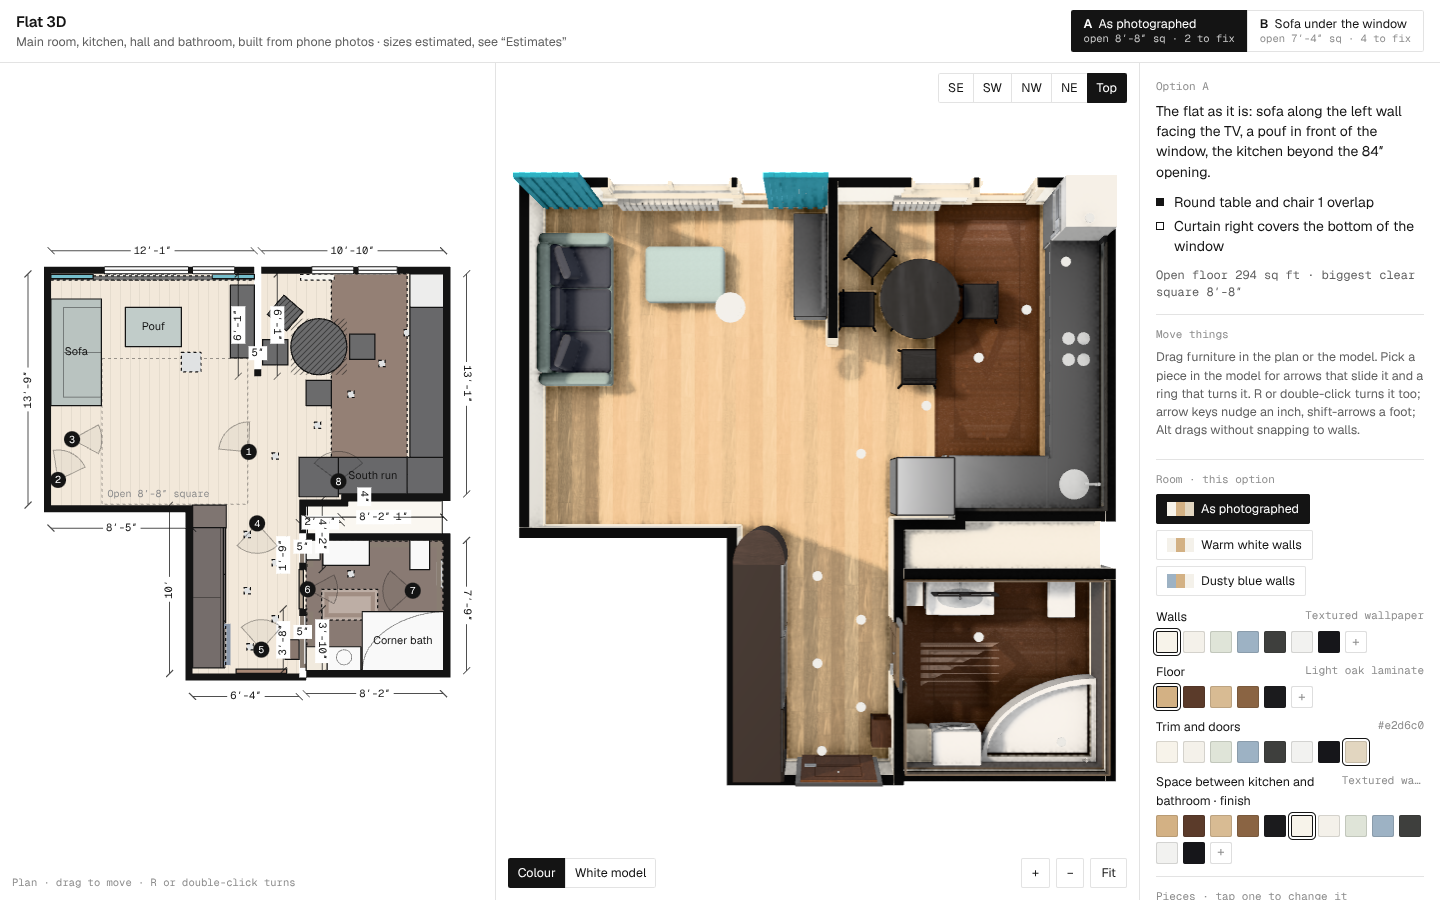
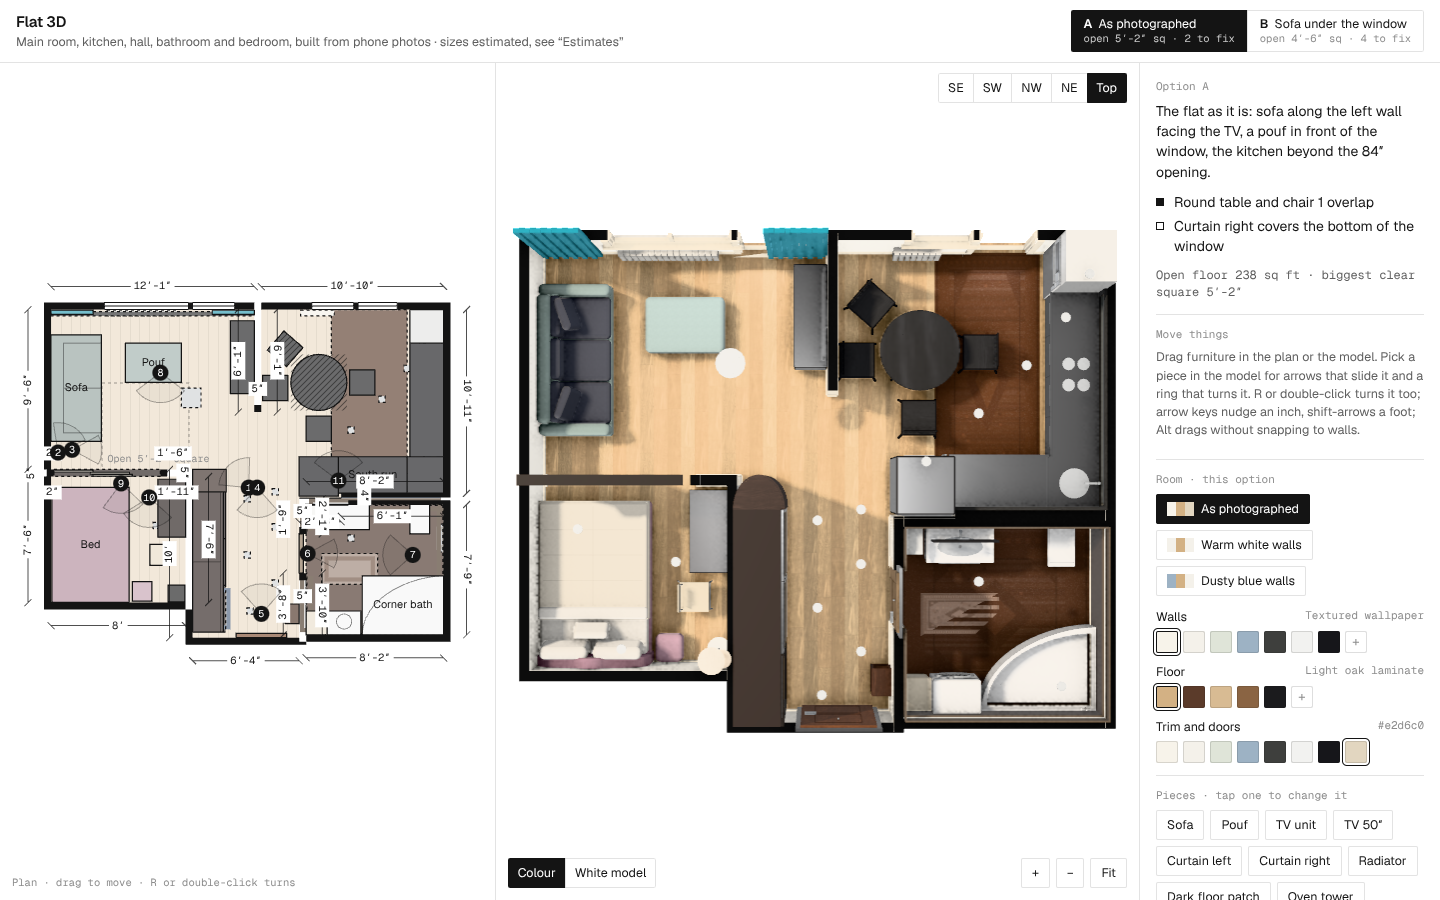
Fix photo camera 2, update previews for the smaller main room and bedroom
Claude-Session: https://claude.ai/code/session_01C5ysYg1dRnUjVbBbdgq5fu

diff --git a/apartment/artifact.html b/apartment/artifact.html
@@ -318,7 +318,7 @@ var CONFIG = {
   ],
   PHOTOS: [
     {src: 'photos/p1.jpg', label: 'Main room · toward the window', at: [141, 127], h: 64, yaw: 318.6, pitch: -8, roll: 0, fov: 102.7},
-    {src: 'photos/p2.jpg', label: 'Main room · from the sofa', at: [5, 102], h: 30, yaw: 28, pitch: -10, roll: 0, fov: 90},
+    {src: 'photos/p2.jpg', label: 'Main room · from the sofa', at: [22, 108], h: 50, yaw: 28, pitch: -10, roll: 0, fov: 90},
     {src: 'photos/k1.jpg', label: 'Kitchen · through the opening', at: [15, 100], h: 55, yaw: 90, pitch: -5, roll: 0, fov: 72},
     {src: 'photos/h1.jpg', label: 'Hall · toward the front door', at: [147, 127], h: 58, yaw: 180, pitch: -3, roll: 0, fov: 100},
     {src: 'photos/h4.jpg', label: 'Hall · toward the rooms', at: [150, 217], h: 58, yaw: 0, pitch: 0, roll: 0, fov: 100},

diff --git a/apartment/config.js b/apartment/config.js
@@ -162,7 +162,7 @@ var CONFIG = {
   ],
   PHOTOS: [
     {src: 'photos/p1.jpg', label: 'Main room · toward the window', at: [141, 127], h: 64, yaw: 318.6, pitch: -8, roll: 0, fov: 102.7},
-    {src: 'photos/p2.jpg', label: 'Main room · from the sofa', at: [5, 102], h: 30, yaw: 28, pitch: -10, roll: 0, fov: 90},
+    {src: 'photos/p2.jpg', label: 'Main room · from the sofa', at: [22, 108], h: 50, yaw: 28, pitch: -10, roll: 0, fov: 90},
     {src: 'photos/k1.jpg', label: 'Kitchen · through the opening', at: [15, 100], h: 55, yaw: 90, pitch: -5, roll: 0, fov: 72},
     {src: 'photos/h1.jpg', label: 'Hall · toward the front door', at: [147, 127], h: 58, yaw: 180, pitch: -3, roll: 0, fov: 100},
     {src: 'photos/h4.jpg', label: 'Hall · toward the rooms', at: [150, 217], h: 58, yaw: 0, pitch: 0, roll: 0, fov: 100},

diff --git a/apartment/index.html b/apartment/index.html
@@ -323,7 +323,7 @@ var CONFIG = {
   ],
   PHOTOS: [
     {src: 'photos/p1.jpg', label: 'Main room · toward the window', at: [141, 127], h: 64, yaw: 318.6, pitch: -8, roll: 0, fov: 102.7},
-    {src: 'photos/p2.jpg', label: 'Main room · from the sofa', at: [5, 102], h: 30, yaw: 28, pitch: -10, roll: 0, fov: 90},
+    {src: 'photos/p2.jpg', label: 'Main room · from the sofa', at: [22, 108], h: 50, yaw: 28, pitch: -10, roll: 0, fov: 90},
     {src: 'photos/k1.jpg', label: 'Kitchen · through the opening', at: [15, 100], h: 55, yaw: 90, pitch: -5, roll: 0, fov: 72},
     {src: 'photos/h1.jpg', label: 'Hall · toward the front door', at: [147, 127], h: 58, yaw: 180, pitch: -3, roll: 0, fov: 100},
     {src: 'photos/h4.jpg', label: 'Hall · toward the rooms', at: [150, 217], h: 58, yaw: 0, pitch: 0, roll: 0, fov: 100},
